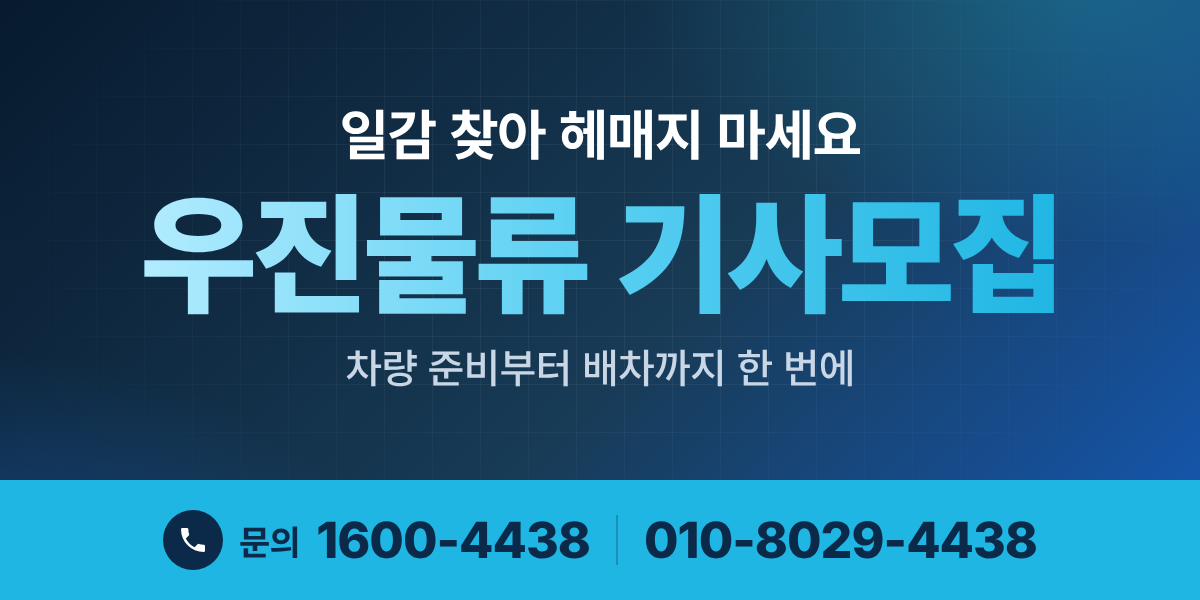
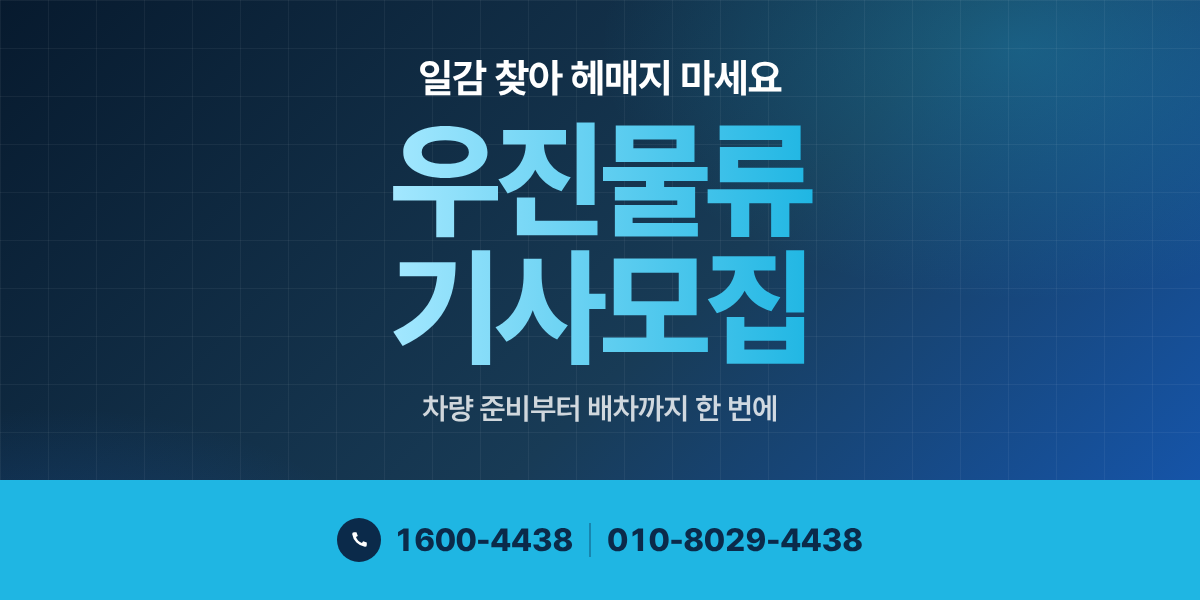
Add files via upload

Changed region(s): [[0.1233, 0.09, 0.8942, 0.72], [0.1233, 0.84, 0.8633, 0.96]]

diff --git a/index.html b/index.html
@@ -16,7 +16,7 @@
 <meta property="og:url" content="https://wjanffb23.github.io/woojin/">
 <meta property="og:title" content="5톤 고정노선 지입기사 채용">
 <meta property="og:description" content="까대기 없는 5톤 찾으셨죠? 노선별 월 매출과 예상 순수익, 상하차·휴무 조건을 확인하고 전화·카카오톡으로 바로 상담하세요.">
-<meta property="og:image" content="https://wjanffb23.github.io/woojin/og-image.png?v=6">
+<meta property="og:image" content="https://wjanffb23.github.io/woojin/og-image.png?v=7">
 <meta property="og:image:type" content="image/png">
 <meta property="og:image:width" content="1200">
 <meta property="og:image:height" content="600">
